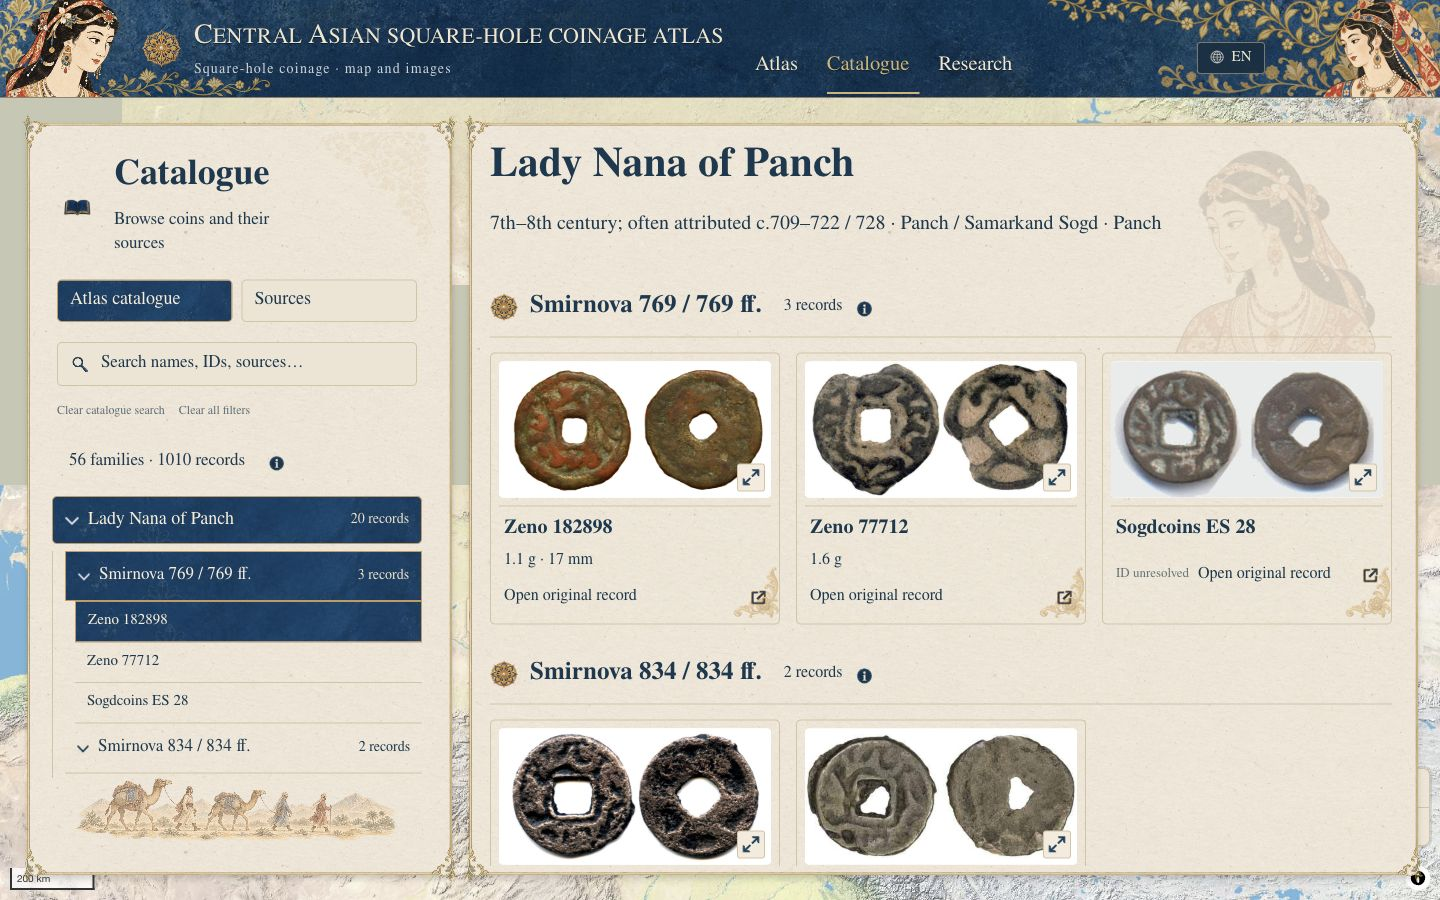
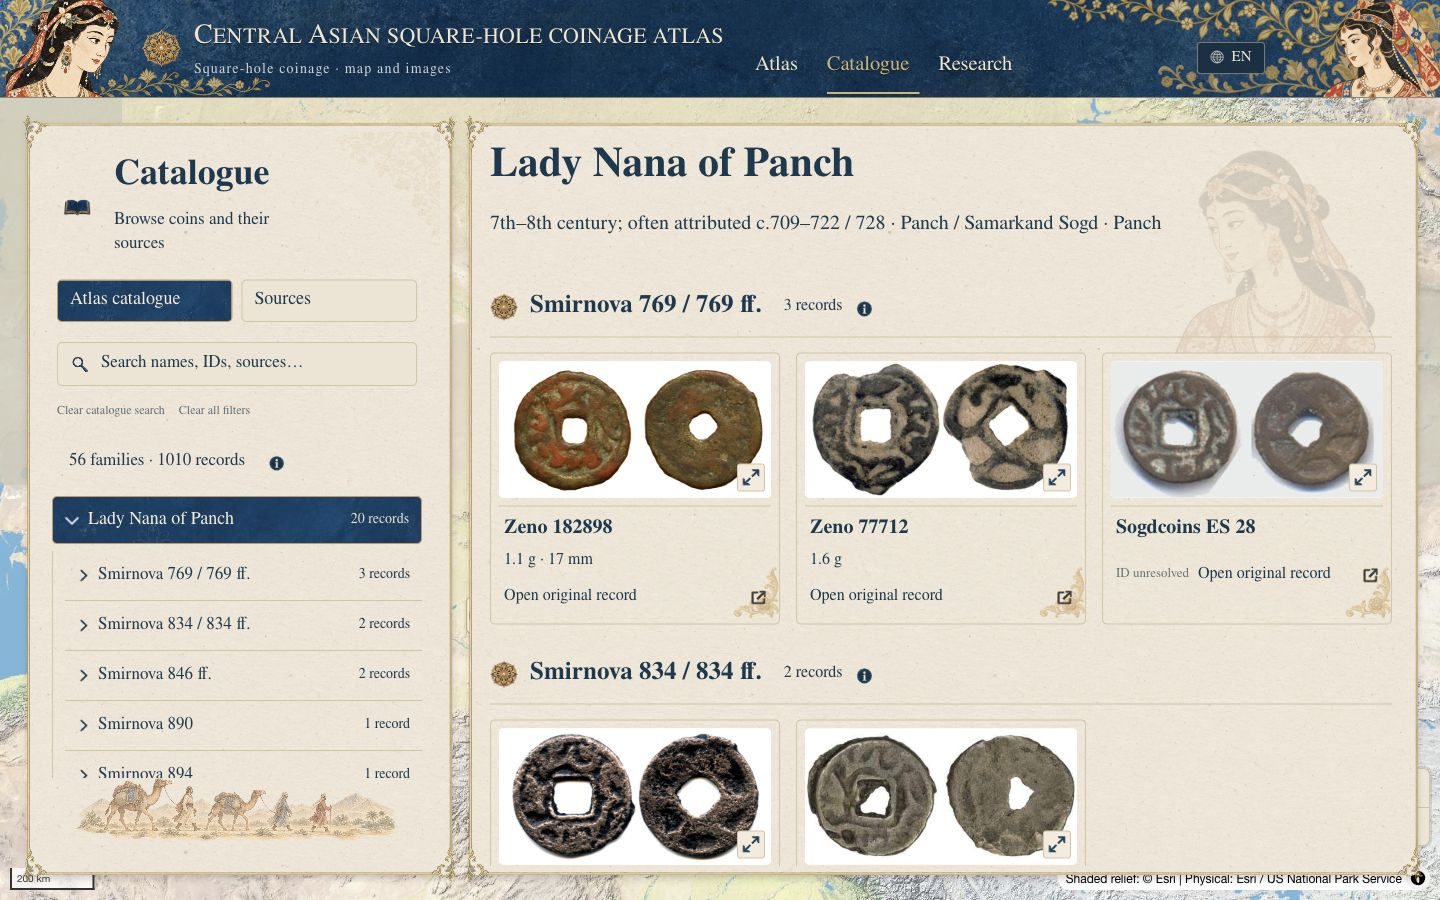
fix: balance catalogue ornament top and right clearance

diff --git a/app/catalogue-frames.css b/app/catalogue-frames.css
@@ -39,12 +39,12 @@
 }
 /* Only the sidebar's previously obscured floral spray moves. */
 .catalogue-frame>.catalogue-tree::before {
- inset:0 0 auto auto;width:125px;height:113.57px;
+ inset:0 -15px auto auto;width:125px;height:113.57px;
  background-position:center;background-size:contain;
  transform:rotate(-90deg);transform-origin:center;pointer-events:none;
 }
 .catalogue-frame .catalogue-title {padding-right:125px}
 @media(max-width:760px) {
- .catalogue-frame>.catalogue-tree::before {width:80px;height:72.68px}
+ .catalogue-frame>.catalogue-tree::before {right:-11px;width:80px;height:72.68px}
  .catalogue-frame .catalogue-title {padding-right:80px}
 }
